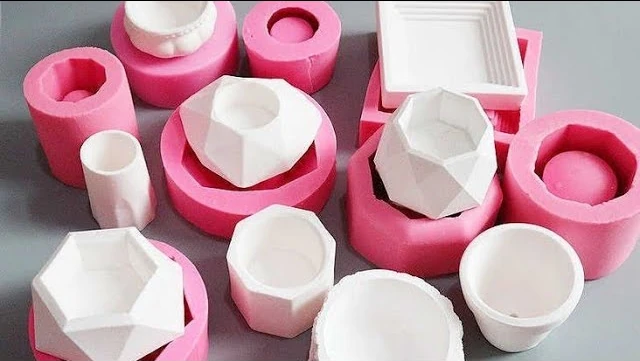
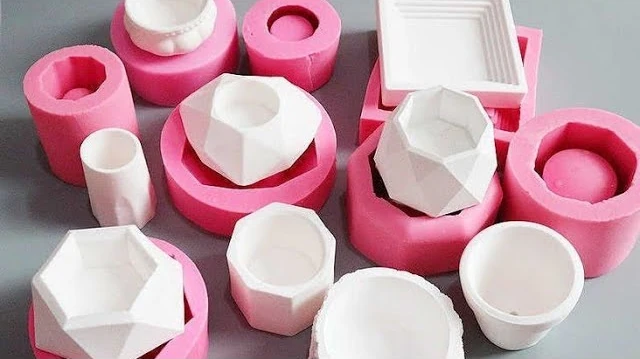
Cargamos nuevamente una imagen, había quedado mal recortada

diff --git a/src/sass/pages/_nosotros.scss b/src/sass/pages/_nosotros.scss
@@ -207,6 +207,16 @@ main {
     display: flex;
     flex-direction: column;
 
+    @media screen and (min-width: 768px) {
+        & {
+            flex-direction: row;
+        }        
+    }
+
+}
+
+.texto-inicio {
+    width: 100%;
 }
 
 .img-inicio {
@@ -217,8 +227,15 @@ main {
 
         margin: 10px;
 
-        width: 45%;
+        width: 40%;
     }
+
+    @media screen and (min-width: 768px) {
+        & {
+            flex-direction: column;
+        }        
+    }
+
 }
 
 footer {
